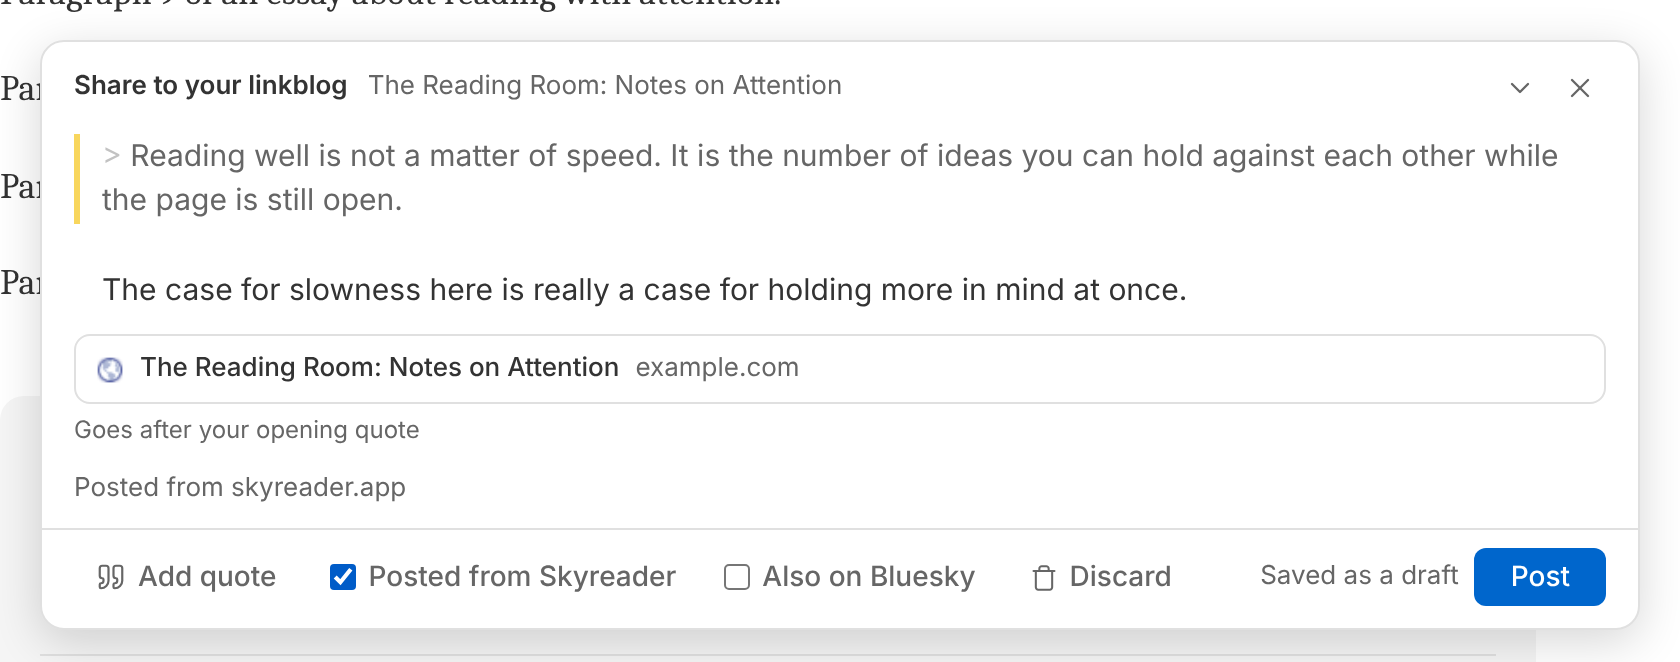
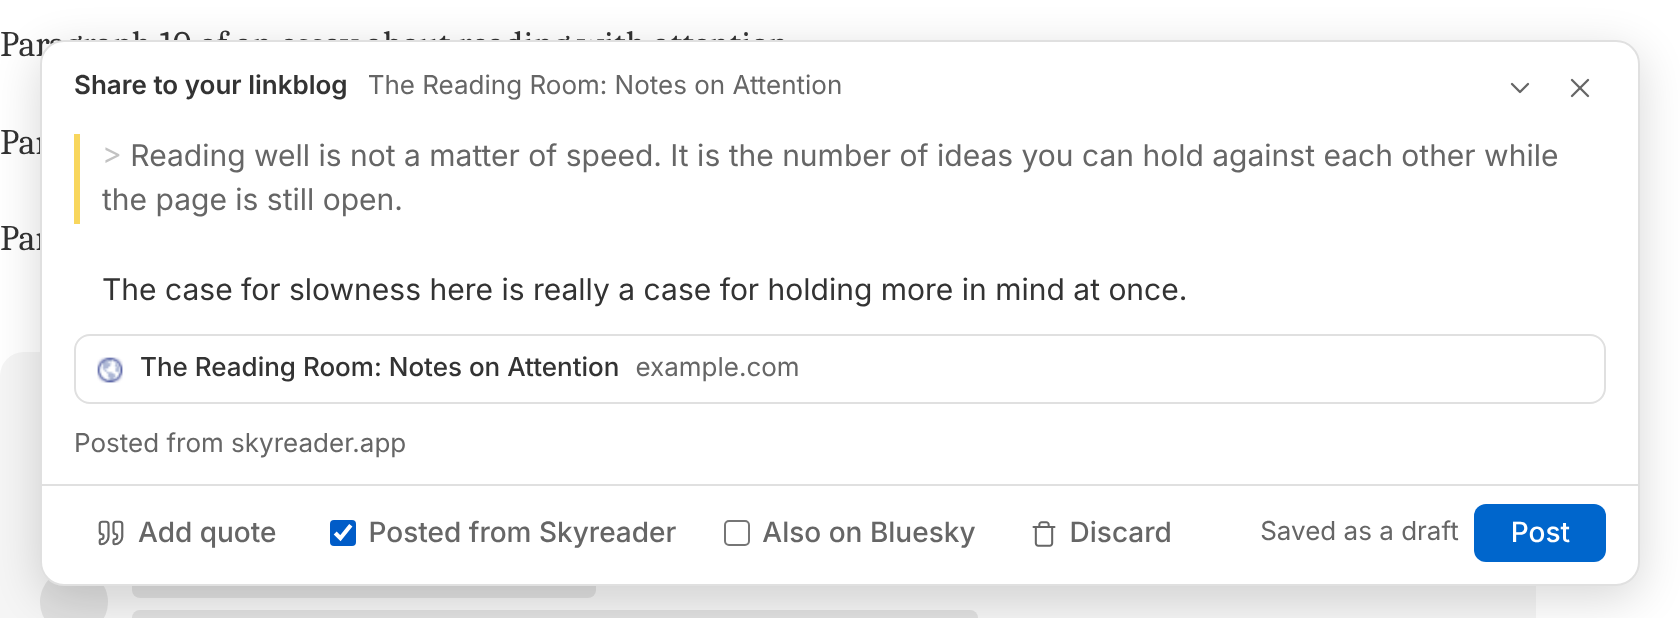
Composer: drop the link card's placement caption
Claude-Session: https://claude.ai/code/session_014mh1a2aQnYHjjuzvcA4npk

diff --git a/frontend/src/lib/components/feed/ShareComposer.svelte b/frontend/src/lib/components/feed/ShareComposer.svelte
@@ -81,25 +81,10 @@
   });
 
   // The editor is one text, so the card can't sit between its paragraphs; it's
-  // drawn above or below it, and says where it goes when that's in between.
-  // 'context' (the default) puts it after the opening quote(s), before the
-  // first commentary — above the editor when the draft doesn't open on a quote.
-  let leadingQuotes = $derived.by(() => {
-    const filled = composer.blocks.filter((b) => b.text.trim() !== '');
-    let n = 0;
-    while (n < filled.length && filled[n].kind === 'quote') n++;
-    return { count: n, all: n > 0 && n === filled.length };
-  });
-  let cardAbove = $derived(
-    cardPosition === 'top' || (cardPosition === 'context' && leadingQuotes.count === 0)
-  );
-  let cardCaption = $derived(
-    cardPosition === 'context' && leadingQuotes.count > 0 && !leadingQuotes.all
-      ? leadingQuotes.count === 1
-        ? 'Goes after your opening quote'
-        : 'Goes after your opening quotes'
-      : ''
-  );
+  // drawn above or below it. 'context' (the default) puts it after the opening
+  // quote(s), so it's above the editor only when the draft doesn't open on one.
+  let opensOnQuote = $derived(composer.blocks.find((b) => b.text.trim() !== '')?.kind === 'quote');
+  let cardAbove = $derived(cardPosition === 'top' || (cardPosition === 'context' && !opensOnQuote));
 
   // ── Also on Bluesky ────────────────────────────────────────────────────────
   // What the cross-post will actually carry, planned live from the draft so the
@@ -777,7 +762,6 @@
         </div>
         {#if !cardAbove}
           {@render linkCard()}
-          {#if cardCaption}<p class="link-card-caption">{cardCaption}</p>{/if}
         {/if}
 
         {#if showAttribution && composer.attribution}
@@ -1326,12 +1310,6 @@
 
   .link-card-domain {
     flex-shrink: 0;
-    color: var(--color-text-secondary);
-  }
-
-  .link-card-caption {
-    margin: -0.25rem 0 0;
-    font-size: var(--text-xs);
     color: var(--color-text-secondary);
   }
 

diff --git a/docs-site/src/content/docs/guide/sharing-and-your-linkblog.md b/docs-site/src/content/docs/guide/sharing-and-your-linkblog.md
@@ -55,7 +55,7 @@ Your link posts are Atmosphere records, so other apps can render them too. On a 
 ![The "How your posts read" settings: a post title select, a link card position select, and the "Posted from Skyreader" offer toggle](../../../assets/screenshots/linkblog-post-settings.png)
 
 - **Post title.** Marks the post as a link rather than a copy of the article: 🔗 before the article title (the default), the title in quotes, or the title exactly as written. The marker is for other apps; Skyreader and your linkblog page always show the plain title.
-- **Link card.** Where the article's card sits in the post: with the quote, above your commentary (the default), first, or last. With the quote, a reader knows what you're responding to before they read the response. The composer shows the card above your writing, or below it with a note when it goes after your opening quote.
+- **Link card.** Where the article's card sits in the post: with the quote, above your commentary (the default), first, or last. With the quote, a reader knows what you're responding to before they read the response. The composer shows the card above or below your writing.
 
 Changing either applies to new posts; posts you already published keep the shape they were written in.
 
